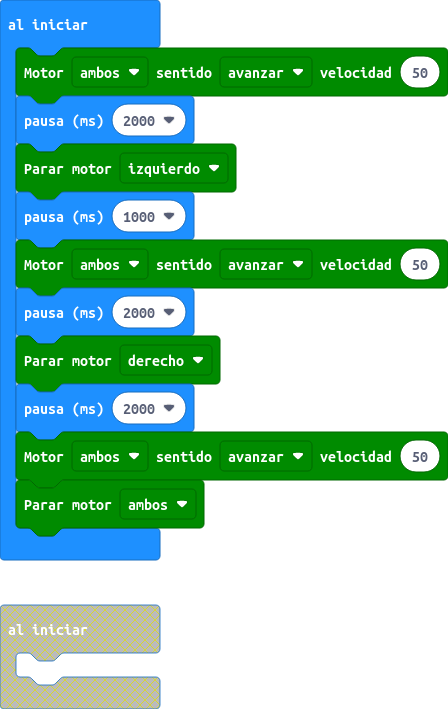
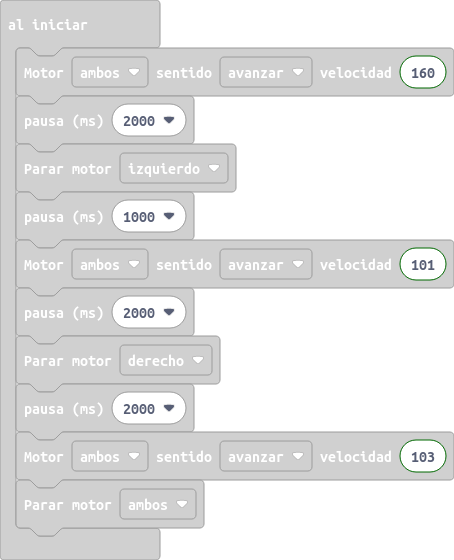
Actualizar main.blocks, main.ts

diff --git a/main.ts b/main.ts
@@ -1,12 +1,12 @@
-maqueen.motorRun(maqueen.Motors.All, maqueen.Dir.CW, 50)
+maqueen.motorRun(maqueen.Motors.All, maqueen.Dir.CW, 160)
 basic.pause(2000)
 maqueen.motorStop(maqueen.Motors.M1)
 basic.pause(1000)
-maqueen.motorRun(maqueen.Motors.All, maqueen.Dir.CW, 50)
+maqueen.motorRun(maqueen.Motors.All, maqueen.Dir.CW, 101)
 basic.pause(2000)
 maqueen.motorStop(maqueen.Motors.M2)
 basic.pause(2000)
-maqueen.motorRun(maqueen.Motors.All, maqueen.Dir.CW, 50)
+maqueen.motorRun(maqueen.Motors.All, maqueen.Dir.CW, 103)
 maqueen.motorStop(maqueen.Motors.All)
 basic.forever(function () {
 	
